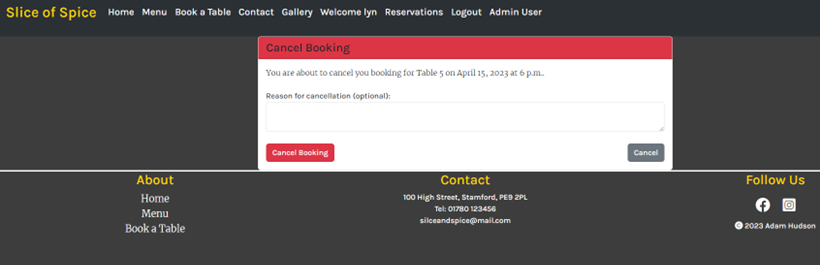
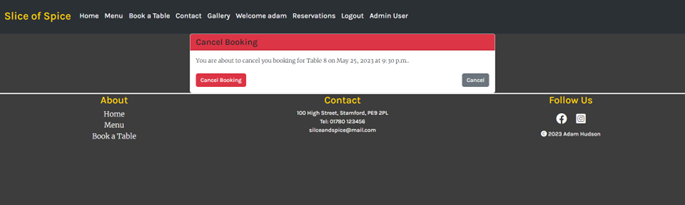
update readme and add images for readme

diff --git a/README.md b/README.md
@@ -1,8 +1,8 @@
 # Slice of Spice #
 
-The Live link can be found here - https://8000-huddy2022-sliceofspice-724f0pui3mj.ws-eu93.gitpod.io/
+The Live link can be found here - 
 
-Slice of Spice website offers a restaurant booking system for the Slice of Spice restaurant and provides the user with navigation such as home/about us, menu, gallery, contact, and a user authentication for sign in/log in (and when logged in a sign out and a reservations page for that user is displayed in the navigation). The site is targeted for any user to explore the restaurant and understand if its somewhere they would like to go an eat. If so they have the opportunity to book a table with this restaurant but only if they sign up to become a member (which allows the super user to have details of the customer but also allows the user to have their own reservations page for any of their own bookings).
+Slice of Spice website offers a restaurant booking system for the Slice of Spice restaurant and provides the user with navigation such as home/about us, menu, gallery, contact, and a user authentication for sign in/log in (and when logged in a sign out and a reservations page for that user is displayed in the navigation). The site is targeted for any user to explore the restaurant and understand if its somewhere they would like to go an eat. If so they have the opportunity to book a table with this restaurant but only if they sign up to become a member (which allows the super user to have details of the customer but also allows the user to have their own reservations page which they can browse and check which bookings they have, plus if a users wishes to they can either cancel or edit one of their current reservations.).
 
 ![Responsive Mockup](https://github.com/Huddy2022/slice_of_spice/blob/main/assets/images/Responsive.png)
 
@@ -26,11 +26,11 @@ This is the hub for all my templates in the slice of spice website. In the head 
   - When you are not logged in there are eight navigation tabs and the slice of spice header which also acts as a link to the home index page.
   - Home, menu, book a table, contact, gallery, sign up, sign in, admin user.
   - When logged in there are nine navigation tabs.
-  - Home, menu, book a table, contact, gallery, welcome user (doesn’t link to any page), reservations, logout, admin user.
+  - Home, menu, book a table, contact, gallery, welcome user (doesn’t link to any page, but references the user), reservations, logout, admin user.
   - The navigation I used a bootstrap template and styled it slightly different to suit the website.
   - It's designed to make it easy for the user to navigate throughout the website.
   - I incorporated the sign in and sign up so that users have their own access to any of their bookings but also allows the super user to have identification of anyone booking a table.
-  - The admin user tab was to allow easy access for the super user to log in and out of the website to control and bookings, cancellations, tables and customers.
+  - The admin user tab was to allow easy access for the super user to log in and out of the website to control any bookings, cancellations, tables and customers.
 
 ![Navigation not signed in](https://github.com/Huddy2022/slice_of_spice/blob/main/assets/images/Navigation_not_signed_in.png)
 
@@ -42,8 +42,8 @@ This is the hub for all my templates in the slice of spice website. In the head 
   - Whether they signed in / signed up.
   - If they have successfully booked a table.
   - If that table is already booked for a specific date or time.
-  - If they have successfully sent a cancellation request to the super user.
-  - To warn the user if they have already sent a cancellation request for that booking.
+  - If they have successfully cancelled a booking.
+  - If they have successfully edited one of their bookings.
 
 ![Success alert](https://github.com/Huddy2022/slice_of_spice/blob/main/assets/images/success_alert.png)
 
@@ -160,26 +160,36 @@ This is the hub for all my templates in the slice of spice website. In the head 
 
 ## Reservations ##
 
-- I created a reservations tab in the navigation to allow users to see any of their bookings but also to cancel any of their bookings.
+- I created a reservations tab in the navigation to allow users to see any of their bookings but also to cancel/edit any of their own bookings.
  
   - __Reservations__
       - This tab only shows when a user is logged in using the booked_table function in the views.
       - On this page it shows the users table number, date booked and time booked
       - There’s a cancel booking button for each of the bookings booked which redirects you to the cancel_booking page.
+      - There's also an edit booking button for each of the bookings booked which redirects you to the edit_booking page.
       - If you don’t have any bookings yet there will be a message of this page saying that to you.
-      - If a user has selected to cancel a booking it would be sent to the super user to authorise and until the super user has approved this there will be an awaiting approval message for the user on that selected booking and the cancel booking will be disabled, so the user cannot keep sending cancellations for that booking.
 
-![Reservations](https://github.com/Huddy2022/slice_of_spice/blob/main/assets/images/reservations.png)
+![Reservations]()
 
   - __Cancel booking__
       
       - This cancel booking page is linked to the reservations page and can only be accessed when a user selects the cancel booking button for one of their bookings.
-      - On this page I have created a card that displays a header, a sub text, a message box for the user to explain why this wish to cancel the booking or if they want to amend anything to their booking and a submit cancellation button. There is also a cancel button if the user changes their mind.
-      - Once a user selects the cancel booking button I use the cancel_booking function in my views to retrieve the specific booking id, and using the post method I get the message from the user and create a cancellation using the Cancellation model for the user and message. A success message is then sent to the user when it renders them back to the home page saying your cancellation request has been submitted.
-      - I have put in a double safe method on this cancellation if a user who has already submitted a cancellation for this specific booking and somehow gets onto the cancellation page again it will come up with an alert stating to the user they have already submitted a request and its awaiting approval. 
-      - Using the cancellation model, once a user has submitted a cancellation request it is sent to the super user to check and has the authority to approve the cancellation, or if a message is received to amend a booking the super user has authority to amend the booking in the booking model and cancel the cancellation request instead.
+      - On this page I have created a card that displays a header, a sub text, a cancel booking button and a cancel button(if the user changes their mind).
+      - Once a user selects the cancel booking button the cancel_booking function in my views retrieves the specific booking id and using the post method wil delete that specfic booking and redirect you back to the home page with a success message is then shown to the user saying your cancellation has been successful.
+      - Alternatively, if the user changes their mind and cancels the request with the cancel button it will redirect the user back to the reservations page.
 
-![Cancel booking](https://github.com/Huddy2022/slice_of_spice/blob/main/assets/images/cancel_booking.png)
+![Cancel booking]()
+
+  - __Edit booking__
+      
+      - This edit booking page is linked to the reservations page and can only be accessed when a user selects the edit booking button for one of their bookings.
+      - On this page I have re created a very similar form to that of the book_a_table.html, with a new header.
+      - However, if a user creates a new booking it will update the orginal booking that was linked to reservation page using its specific ID, through the edit_booking function.
+      - Once the user submits the new booking it will redirect the user back to the home page with a success message saying Congratulations you have edited your booking!.
+      - In the function i have put the current booking_id as excluded as some users might get paranoid about changing a booking and might just want to re book for the same date/time/table, rather than feel they might have lost it after clicking the edit booking button.
+      - Alternatively, if the user changes their mind and cancels the request with the cancel button it will redirect the user back to the reservations page.
+
+![Edit booking]()
 
 ## Admin user ##
 
@@ -187,7 +197,7 @@ This is the hub for all my templates in the slice of spice website. In the head 
 
    - __Models__
 
-      - I created four models for this website, customer, booking, table and cancellation.
+      - I created three models for this website, customer, booking and table.
         
         - __Customer__
            
@@ -200,18 +210,12 @@ This is the hub for all my templates in the slice of spice website. In the head 
            - The customer has a foreign key relating to the Customer model.
            - The table has a foreign key relating to the Table model.
            - I used a class meta to create a unique together of all the tuples of table, booking_date and booking_time.
+           - An admin user can edit any booking or delete
 
         - __Table__
 
            - This model stores the table number, capacity of the table and the tables availability.
            - The capacity has a for loop which allows positive integers to be stored in the database with choices of values between 1-4.
-
-        - __Cancellation__
-
-           - This model stores the user, message and approved
-           - The user has a foreign key relating to the Booking model
-           - Approved is set to default False to allow admin to approve any cancellation
-           - Inside this model is a function save() which saves to the database first and then with an if statement checks if approved is True and if so delete that’s specific attribute of the user.
 
 ## Testing ##
 
@@ -229,8 +233,9 @@ This is the hub for all my templates in the slice of spice website. In the head 
 | log in nav | Renders login page | yes renders login page when clicked | works well on tablet and mobile |
 | Admin user nav | Renders Django admin page | yes renders Django’s admin page when clicked | works well on tablet and mobile |
 | Welcome {user} nav | Doesn’t link to anywhere | yes doesn’t render any page or error when logged in and clicked | works well on tablet and mobile |
-| Reservations nav | Renders reservations page | yes renders reservations page when logged in and clicked | works well on tablet and mobile |
+| Reservations nav | Renders reservations page | yes renders reservations page when logged in and clicked | works well on tablet and mobile fits relatively well but user needs to slide left and right to see edit booking button and nav bar |
 | Cancel booking page | Renders cancel booking page | yes renders cancel booking page when user clicks cancel booking button | works well on tablet and mobile |
+| Edit booking page | Renders edit booking page | yes renders edit booking page when user clicks edit booking button | works well on tablet and mobile |
 | Logout nav | Renders logout page | yes renders logout page when logged in and clicked | works well on tablet and mobile |
 | Past booking | Checks specific date/time is in the past | yes alert comes up if user tries to book a table for a past date/time | works well on tablet and mobile |
 | Double booking | Checks specific date/time/table is already booked| yes alert comes up if user tries to book the same table for same date/time | works well on tablet and mobile |
@@ -238,11 +243,10 @@ This is the hub for all my templates in the slice of spice website. In the head 
 | Not logged in booking | Doesn’t allow user to book a table | yes if not signed in submit button is disabled | works well on tablet and mobile |
 | Booking reservation | Shows users table number, date and time of reservation | yes on reservation page, table number, date and time booked are showing | works well on tablet and mobile |
 | Cancel booking successful | Allow user to cancel a specific booking | yes buttons work to allow a user to cancel a specific booking | works well on tablet and mobile |
-| Awaiting approval | Awaiting approval shows in reservation page | yes when a user selects cancel booking, awaiting approval is shown on reservation page | works well on tablet and mobile |
 | Delete expired bookings | Deletes any out of date booking | yes deletes any out of date booking | n/a |
 
 - I created two tests in the booking app
-- test_models.py to test all four of the models were working correctly
+- test_models.py to test all three of the models were working correctly
 - test_views.py to test all the functions in my views.py were working correctly
 - I changed the database back to SQLite and ran the tests and I can confirm all tests ran ok
 
@@ -285,6 +289,8 @@ from datetime import timedelta, datetime to make everything work in this functio
 - The cancel booking function was similar to the reservations, where I had to find the users booking and then in the if statement save the cancellation before passing it to the cancellation model. The booking I used get_object_or_404 to retrieve the booking object or if not there raise and error.
 - The delete expired bookings is difficult to work with the timezone now - I had to filter through to get all the bookings and I had to use a Q class to be more complex by adding the dates and times together to make sure it’s out of date.
 - To get the delete_expired_bookings to work I had to add the function in two other functions otherwise it would get called.
+- Re visiting the code i had an error with the UX navigation broken link when deployed which was a result of using the wrong URL for the admin page. I have corrected this now and created a new url path that will allow any user to click on the admin link without it breaking.
+- Another bug was i didnt use CRUD properly, where the user can create, read any booking but only had the option to cancel a booking or put a message to the super user if they wished to edit/cancel a booking. Now i have removed the cancellation model as was uneccessary and changed the function for the cancel booking, so a user can cancel their own booking without an approval from the super user. Also, i have created an edit booking where the user can if they wish edit one of their own bookings by creating a new reservation which will overwrite the old one. These two amendments should allow for a complete CRUD.
 
 ## Un fixed bugs ##
 
@@ -307,7 +313,7 @@ from datetime import timedelta, datetime to make everything work in this functio
 - Removed the DISABLE_COLLECTSTATIC 1
 - Deployed branch to main in Heroku 
 
-The live link can be found here - https://8000-huddy2022-sliceofspice-724f0pui3mj.ws-eu93.gitpod.io/
+The live link can be found here - 
 
 ## Credits ##
 
